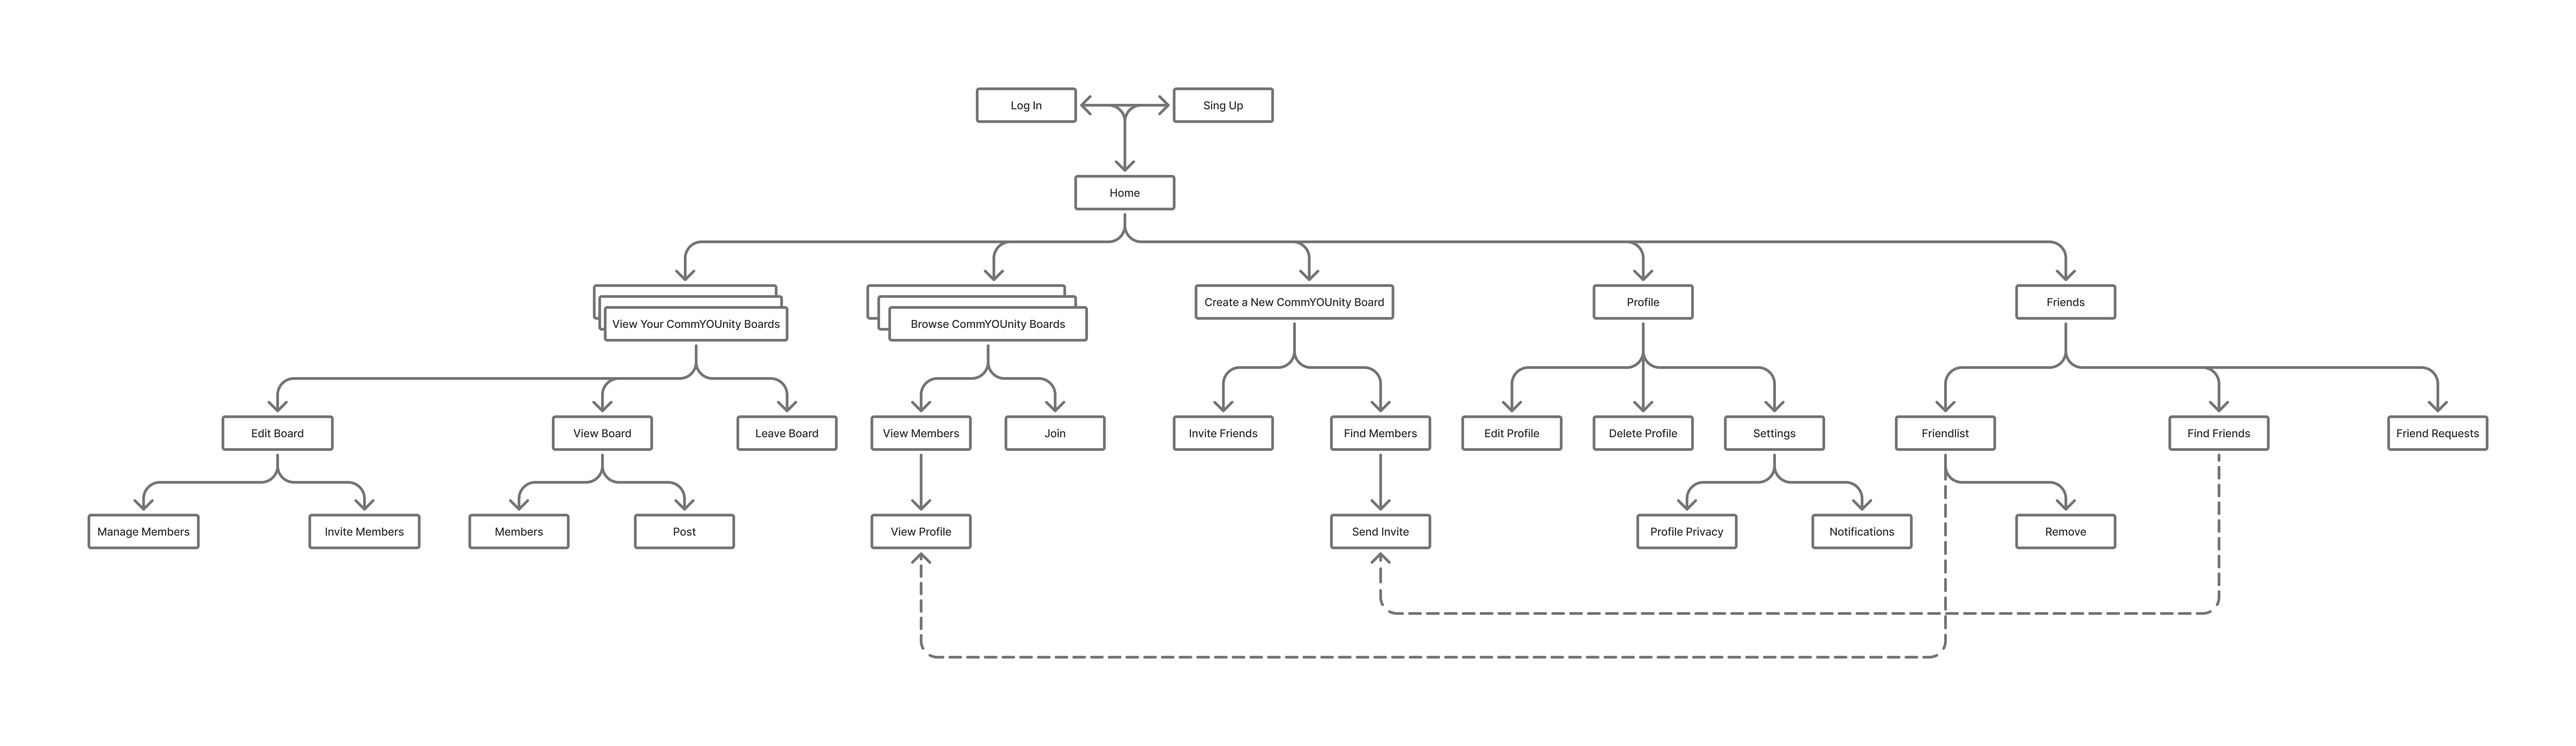
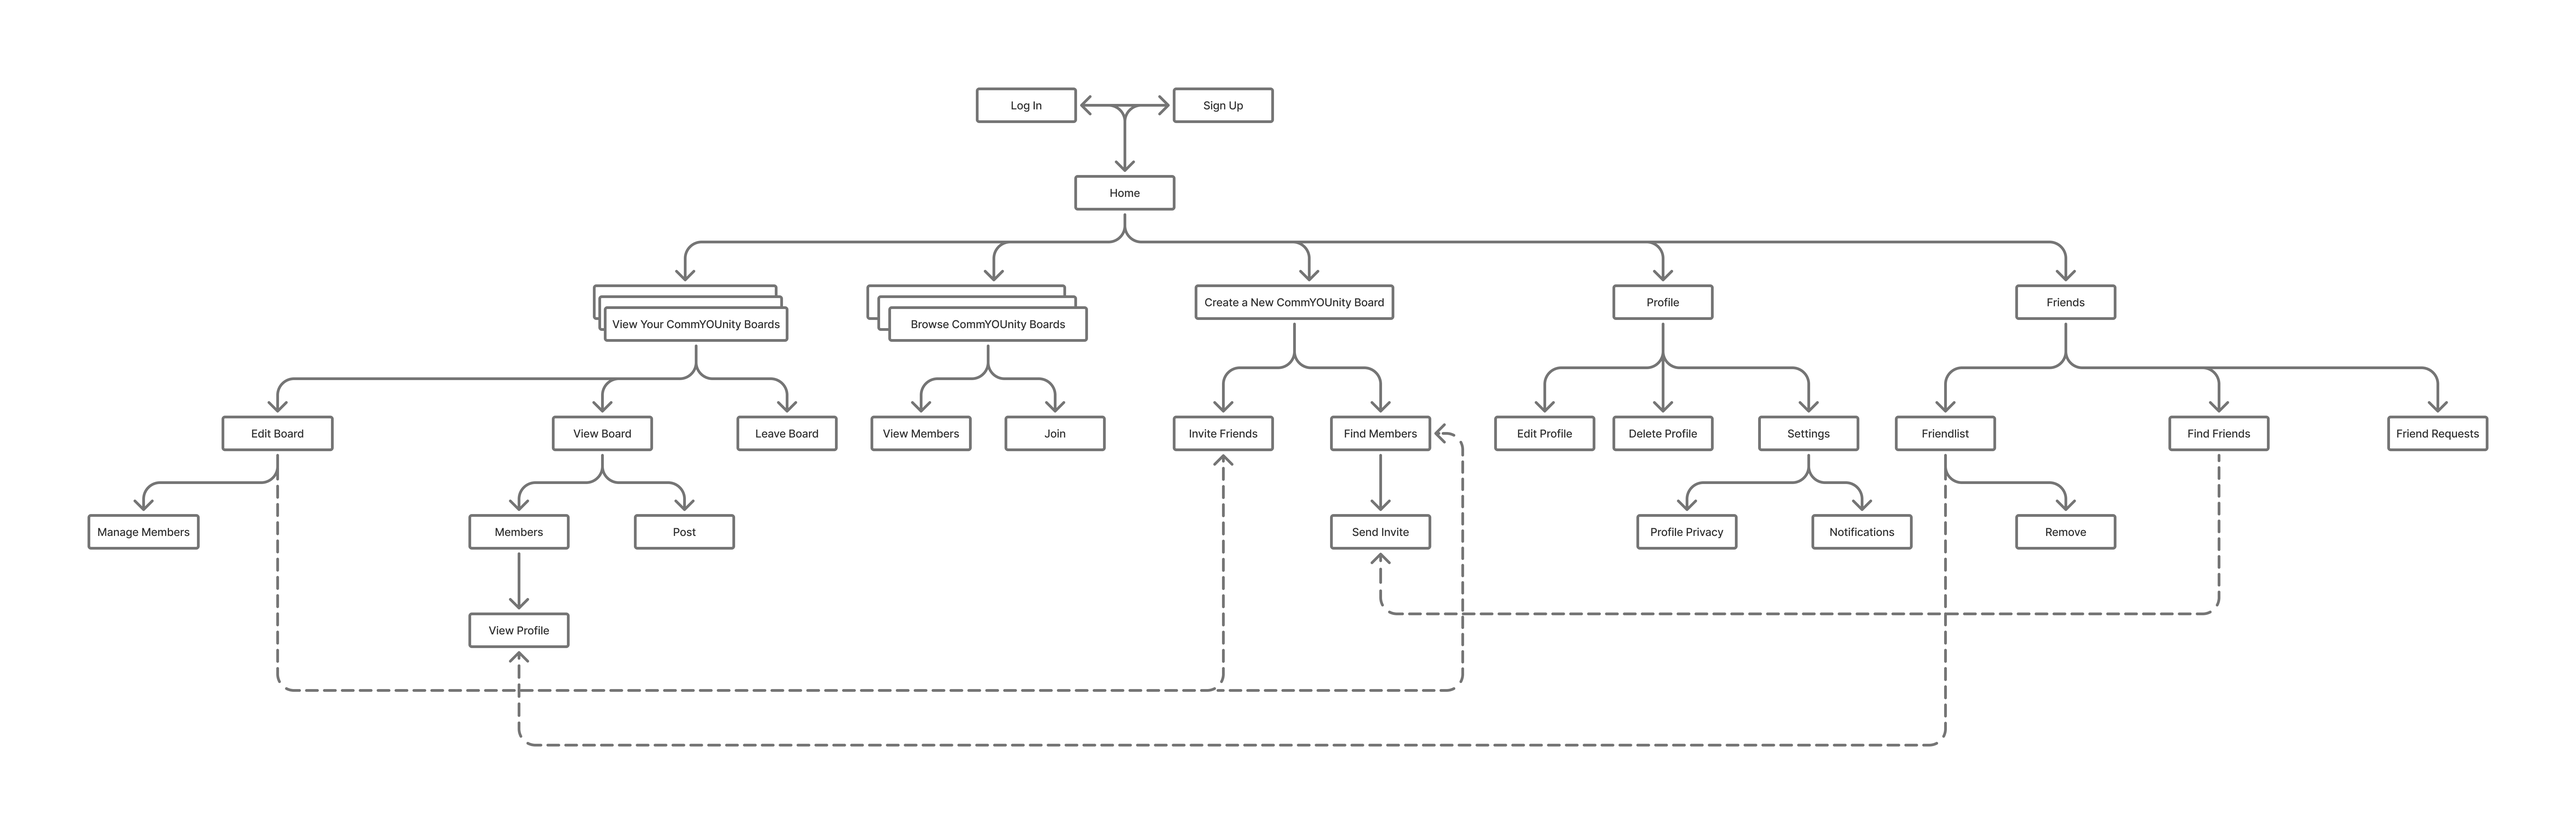
added updates

diff --git a/UX-DESIGN.md b/UX-DESIGN.md
@@ -3,7 +3,7 @@
 ## Prototype
 Our prototype features interactive buttons and navigation through all the proposed App Map/Wireframe screens. 
 
-If you want to view ou prototypr, click on this [link](https://www.figma.com/proto/ys860yHtOerx2W7UtIyJOV/Wireframe?page-id=0%3A1&node-id=9-21&viewport=-2245%2C282%2C0.47&t=x2KDAitqEAcYH3AT-1&scaling=scale-down&content-scaling=fixed&starting-point-node-id=9%3A21&show-proto-sidebar=1).
+If you want to view ou prototypr, click on this [link](https://drive.google.com/file/d/1l-_9agVdzB0AQ_QnYdtXnzsqeP_-oqas/view?usp=sharing).
 
 ## App Map
 ![App Map](ux-design/App%20Map.png)
@@ -71,17 +71,12 @@ Screen for confirming deletion of the user account.
 
 Form to create and name a new community board.
 
-### 5.1 Invite Members
-![Invite Members](ux-design/Invite%20Members.png)
-
-Allows inviting other users to join your new board (either friends or finding other members).
-
-### 5.1.1 Send Invite
+### 5.1 Send Invite
 ![Send Invite](ux-design/Send%20Invite.png)
 
 Screen for sending invitations to users for boards.
 
-### 5.1.2 Invite Friends
+### 5.2 Invite Friends
 ![Invite Friends](ux-design/Invite%20Friends.png)
 
 Screen for sending friend invites.

diff --git a/ux-design/prototype/readme.md b/ux-design/prototype/readme.md
@@ -1,1 +1,1 @@
-This is a link to our [prototype](https://www.figma.com/proto/ys860yHtOerx2W7UtIyJOV/Wireframe?page-id=0%3A1&node-id=9-21&viewport=-2245%2C282%2C0.47&t=x2KDAitqEAcYH3AT-1&scaling=scale-down&content-scaling=fixed&starting-point-node-id=9%3A21&show-proto-sidebar=1).
+This is a link to our [prototype](https://drive.google.com/file/d/1l-_9agVdzB0AQ_QnYdtXnzsqeP_-oqas/view?usp=sharing).
